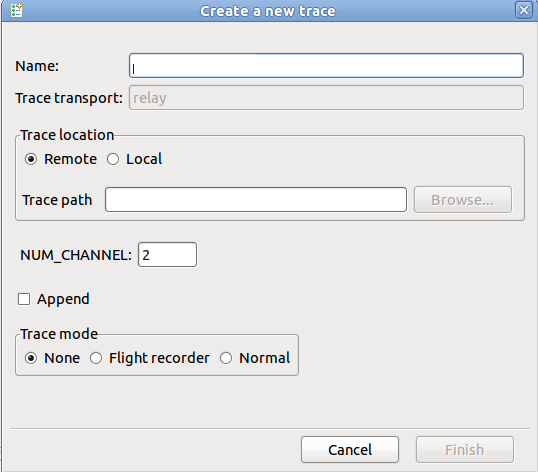
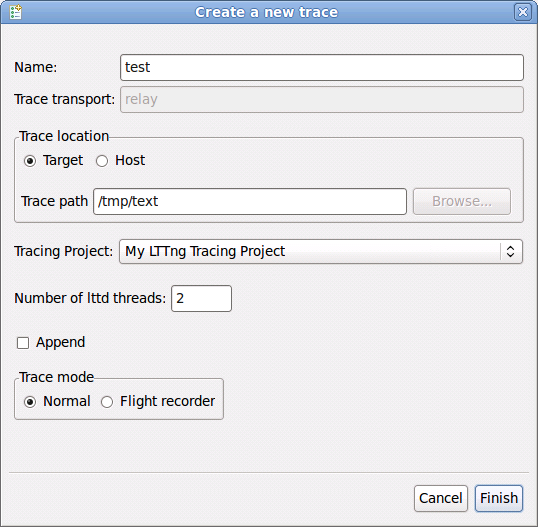
Update the LTTng help plug-in

Changed region(s): [[0.0, 0.0, 1.0, 1.0], [0.3569, 0.0, 0.6543, 0.0593]]

diff --git a/lttng/org.eclipse.linuxtools.lttng.help/Linux_Tools_Project/LTTng/User_Guide/User-Interface.html b/lttng/org.eclipse.linuxtools.lttng.help/Linux_Tools_Project/LTTng/User_Guide/User-Interface.html
@@ -160,13 +160,11 @@
 		</p>
 		<p>You can also search on the subset of filtered events by toggling the header row to the Search Bar while a filter is applied. Searching and filtering conditions are independent of each other.</p>
 		<h3 id="Histogram_View">Histogram View</h3>
-		<p>The Histogram View displays the trace events distribution with respect to time.</p>
+		<p>The Histogram View displays the trace events distribution with respect to time. When streaming a trace, this view is dynamically updated as the events are received.</p>
 		<p>
 			<img border="0" src="images/HistogramView.png"/>
 		</p>
-		<p>The large histogram, at the bottom, shows the event distribution over the whole trace. The timetamps (sec.nanosec) correspond to the first and the last event in the trace. The selected area corresponds to the current time range window. When clicking in that viewer, the mouse wheel can be used to zoom in/out and update the time range window.</p>
-		<p>The smaller histogram, on the top right of the view, is a zoom of the current time range window. It also has timestamps on the bottom that correspond to the time range. The scale of the histogram (i.e. the number of events) is displayed on the right.</p>
-		<p>On the top left, there are three elements of data:</p>
+		<p>On the top left, there are two data controls:</p>
 		<ul>
 			<li>
 				<b>Current Event (sec)</b>: Displays the timestamp of the currently selected event
@@ -174,8 +172,26 @@
 			<li>
 				<b>Window Span (sec)</b>: Displays the current time range window size
 			</li>
+		</ul>
+		<p>Both control can be used to modify their respective value. After validation, the other controls and views will be synchronized and updated accordingly.</p>
+		<p>The large histogram, at the bottom, shows the event distribution over the whole trace or set of traces. It also has a smaller semi-transparent window, with a cross-hair, that shows the currently selected time range window. The time range window can be zoomed in/out by using the mouse wheel. It can also be selected by the mouse and dragged to another region of the trace.</p>
+		<p>The smaller histogram, on top right, corresponds to the currently selected time range window, a sub-range of the event set. Its size can also be zoomed in/out using the mouse wheel.</p>
+		<p>The x-axis of each histogram corresponds to the events timestamps. The timestamp of the first and the last event of the respective ranges is displayed. The y-axis of each histogram shows the minimum/maximum number of events in the corresponding histogram bars.</p>
+		<p>The dashed vertical magenta bar, on the right, shows the position of the last event. The dashed vertical red bar shows the relative position of the currently selected event. The current event can be changed by clicking on the histogram.</p>
+		<p>Hovering the mouse over an histogram bar pops up an information window that displays the start/end time of the corresponding bar as well as the number of events it represents.</p>
+		<p>In each histogram, the following keys are handled:</p>
+		<ul>
 			<li>
-				<b>Window Center (sec)</b>: Displays the timestamp at the cursor
+				<b>Left</b>: Moves the current event to the previous non-empty bar
+			</li>
+			<li>
+				<b>Right</b>: Moves the current event to the next non-empty bar
+			</li>
+			<li>
+				<b>Home</b>: Displays the current event to the first histogram bar
+			</li>
+			<li>
+				<b>End</b>: Displays the current event to the last non-empty histogram bar
 			</li>
 		</ul>
 		<h3 id="Control_Flow_View">Control Flow View</h3>
@@ -492,10 +508,10 @@
 				<b>Trace Location</b>:  
 				<ul>
 					<li>
-						<b>Remote</b>: means that the trace is stored on the remote system where the trace is collected. 
+						<b>Target</b>: means that the trace is stored on the remote system where the trace is collected. 
 					</li>
 					<li>
-						<b>Local</b>: means that the trace is transfered to the local host where the eclipse application is running. 
+						<b>Host</b>: means that the trace is transfered to the local host where the eclipse application is running. 
 					</li>
 					<li>
 						<b>Trace path</b>: holds the path where the trace shall be stored. The 
@@ -504,21 +520,25 @@
 					</li>
 				</ul>
 			</li>
+		</ul>
+		<ul>
 			<li>
-				<b>NUM_CHANNELS</b>: defines the number of threads to be used during tracing.
+				<b>Tracing project</b>: defines the LTTng Tracing project where a streaming (host) trace will be added at trace start.
+			</li>
+			<li>
+				<b>Number of lttd threads</b>: defines the number of threads to be used by the ltt daemon during tracing.
 			</li>
 			<li>
 				<b>Append</b>: can be used to append the new trace to an existing trace.
 			</li>
 			<li>
 				<b>Trace mode</b>: can be either 
-				<b>None</b>, 
-				<b>Flight Recorder</b> or 
-				<b>Normal</b>.
+				<b>Normal</b> or 
+				<b>Flight Recorder</b>. In normal mode, the subbuffers are constantly written while the trace is started. In flight recorder mode, only the latest subbuffers are written when the trace is stopped. 
 			</li>
 		</ul>
-		<p>If all input are valid the 
-			<b>Finsh</b> button will be active and can be use to create the trace. The LTTng trace control will setup the trace using the connection to the remote agent.
+		<p>If all inputs are valid the 
+			<b>Finish</b> button will be active and can be used to create the trace. The LTTng trace control will setup the trace using the connection to the remote agent.
 		</p>
 		<p>After creating a new trace, the Remote Systems view will be updated. When selecting the newly created trace in the tree, the buttons to start, stop and configure the trace will be enabled.</p>
 		<p>
@@ -533,7 +553,7 @@
 			<a href="User-Interface.html#Create_a_New_Kernel_Trace">Create_a_New_Kernel_Trace</a>
 		</p>
 		<p>
-			<img border="0" src="images/LTTngConfigureTraceDialog_New.png"/>
+			<img border="0" src="images/LTTngConfigureTraceDialog.png"/>
 		</p>
 		<p>After entering valid parameters the 
 			<b>Next</b> and 
@@ -587,7 +607,7 @@
 		</p>
 		<h4 id="Start_a_Trace">Start a Trace</h4>
 		<p>A configured or paused trace can be started by selecting the kernel trace, clicking the right mouse button and selecting the 
-			<b>Start</b> menu item of the context sensitive menu. Alternatively, the start button in the toolbar can be used to start the trace.
+			<b>Start</b> menu item of the context sensitive menu. Alternatively, the start button in the toolbar can be used to start the trace. If the trace location is host (streaming trace), it will be automatically added to the tracing project that was selected at trace creation.
 		</p>
 		<p>
 			<img border="0" src="images/LTTngStartTraceAction.png"/>
@@ -606,36 +626,35 @@
 		<p>
 			<img border="0" src="images/LTTngStopTraceAction.png"/>
 		</p>
-		<h4 id="Import_a_Trace_in_the__LTTng_Perspective">Import a Trace in the  LTTng Perspective</h4>
-		<p>A stopped trace can be imported to the LTTng Perspective for viewing by selecting the relevant trace, clicking the right mouse button and selecting the 
+		<h4 id="Import_a_Trace_in_the_LTTng_Perspective">Import a Trace in the LTTng Perspective</h4>
+		<p>A streaming or stopped trace can be imported to the LTTng Perspective for viewing by selecting the relevant trace, clicking the right mouse button and selecting the 
 			<b>Import To Project</b> menu item of the context sensitive menu. A new dialog box will show to select the LTTng Project. 
 		</p>
 		<p>
 			<img border="0" src="images/LTTngImportTraceAction.png"/>
 		</p>
-		<p>For local trace path:</p>
+		<p>For local trace path (streamed to the host):</p>
 		<p>
 			<img border="0" src="images/LTTngImportLocalTrace.png"/>
 		</p>
-		<p>For remote trace path:</p>
+		<p>For remote trace path (stored on the target):</p>
 		<p>
 			<img border="0" src="images/LTTngImportRemoteTrace.png"/>
 		</p>
 		<ul>
 			<li>
-				<b>Import to project</b>: All in the workspace existing LTTng Projects are displayed in a table and the user has to select the destination. If no projects are available the use has to create a new project first (see 
+				<b>Import to project</b>: All existing LTTng tracing projects in the workspace are displayed in a table and the user has to select the destination. If no projects are available the user has to create a new project first (see 
 				<a href="User-Interface.html#Project_View">Project_View</a>)
 			</li>
 			<li>
 				<b>Trace name</b>: specifies the name that the imported trace shall have in the LTTng project. 
 			</li>
 			<li>
-				<b>Link only</b>: For local trace path the user has the option to create a symbolic link to the trace path or to copy the trace into the LTTng project. 
+				<b>Link only</b>: For a trace streamed to the host the user has the option to create a symbolic link to the trace path or, if the trace is stopped, to copy the trace into the LTTng project. 
 			</li>
 		</ul>
 		<p>After pressing button 
-			<b>Import</b> the trace will be stored in the selected project. For 
-			<b>Remote</b> it will be downloaded from the remote system.
+			<b>Import</b> the trace will be stored in the selected project. For a trace stored on the target, it will be downloaded from the remote system.
 		</p>
 		<h4 id="Delete_a_Trace">Delete a Trace</h4>
 		<p>A stopped trace can be deleted by selecting the relevant trace, clicking the right mouse button and selecting the 
